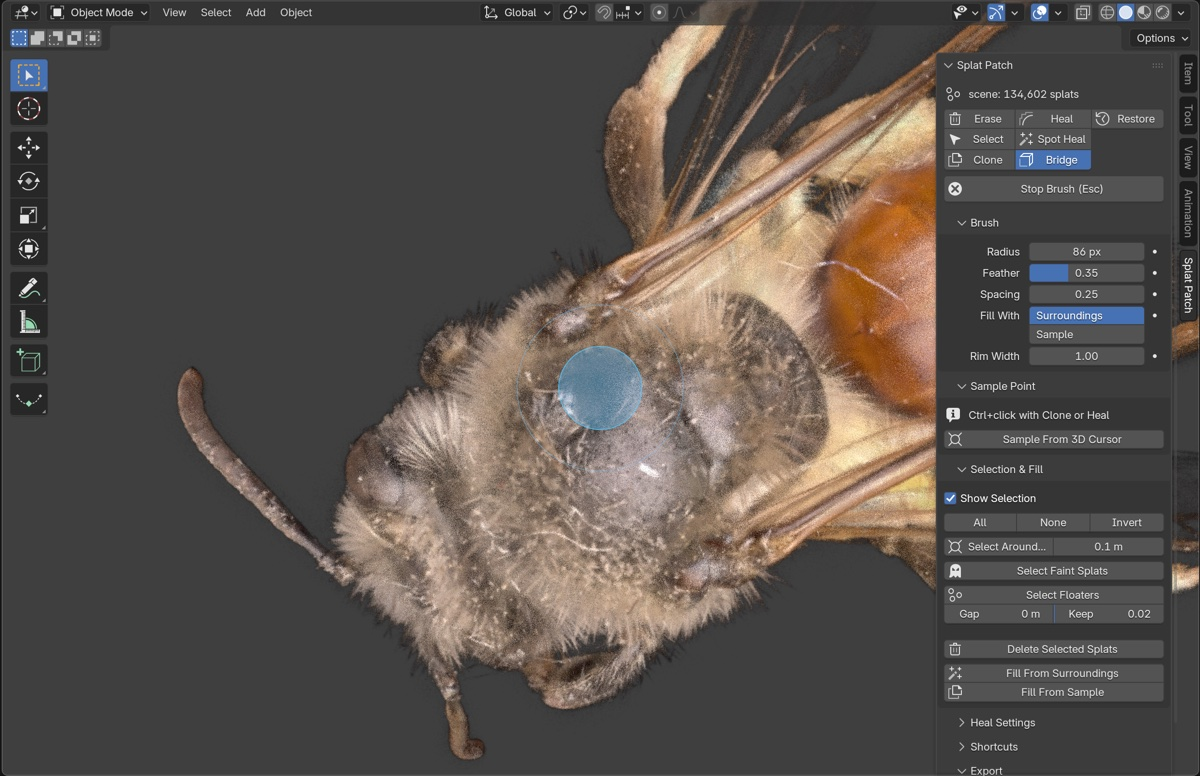
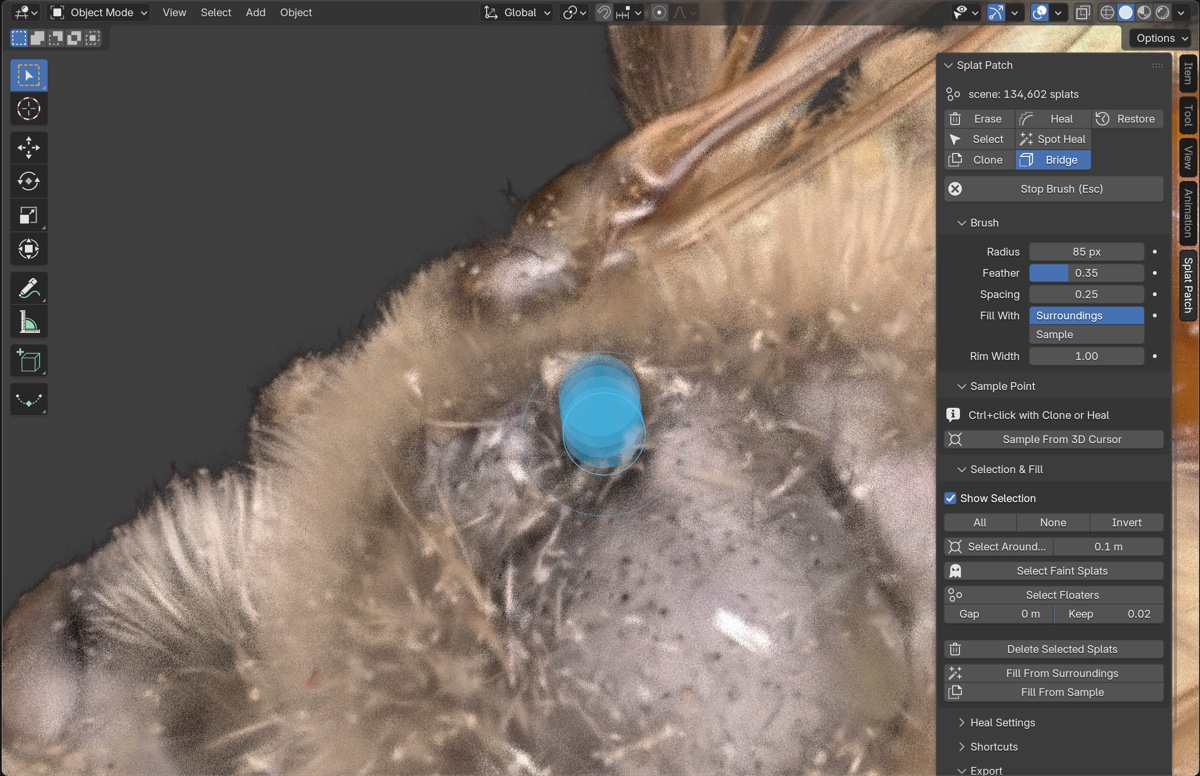
Make Bridge fill what's visibly missing; redo README shots using only the tools
The README's pin removal and Bridge hole were produced by script (a cylinder
selection and a synthetic hole), not the way a user works. Redoing them with
the brushes exposed that Bridge barely filled a real pin hole: its coverage
test counted the hole's own walls as surface. Bridge now decides what is
missing from the view (painted cells whose front surface sits clearly behind
the rim's, fitted across the screen) and grows the patch in view space from
the rim's surface layer, capped so it never reaches past a thin edge.

All README screenshots now come from one session on the Big Bee made only
with the brushes, keys and panel buttons: Erase strokes along the pin in
Surface mode, Select Floaters + Delete, two Bridge strokes, Erase on two
fibres, Spot Heal on specks, a Clone stroke and the Restore view. Captions
say where the result falls short (a thin shadow remains in the pin hole).

diff --git a/gs_patch/ops.py b/gs_patch/ops.py
@@ -576,8 +576,25 @@ class GSP_OT_brush(bpy.types.Operator):
         near = np.nonzero(in_outer & S.visible)[0]
         toward = -view.view_vector_local(self.region, self.rv3d, cx, cy, mw)
 
+        # What counts as the hole is what the user sees: parts of the painted area that are
+        # empty or clearly deeper than the rim's surface (fitted across the screen).
+        hole = self.visible_hole(fp, inner, band, front, cid, cx, cy, r)
+        if not hole.any():
+            self.report({'INFO'}, "The surface under the painted area is intact; nothing to fill")
+            return
+
         def in_footprint(pts):
-            return fp.lookup(inner, *proj.project(pts))
+            return fp.lookup(hole, *proj.project(pts))
+
+        if p.bridge_source != 'SAMPLE':
+            added = self.view_fill(context, fp, hole, band, cx, cy)
+            if added == 0:
+                self.report({'WARNING'}, "Couldn't read the surface around the hole; paint a little onto its edge")
+                return
+            self.last_bridge = (len(ring), 0, added, "Bridged")
+            self.report({'INFO'}, f"Bridged from surroundings: +{added} splats")
+            self.rev = commit(context, self.obj, S, "Splat bridge")
+            return
 
         source = None
         if p.bridge_source == 'SAMPLE':
@@ -588,13 +605,142 @@ class GSP_OT_brush(bpy.types.Operator):
         removed, added, msg = core.bridge_fill(
             S, ring, near, in_footprint, toward, edge=edge, roughness=p.roughness, color_smooth=p.color_smooth,
             density=p.density, source=source, heal=p.heal_strength, feather=p.feather,
-            seed=int(time.time()))
+            seed=int(time.time()), footprint_is_hole=True)
         self.last_bridge = (len(ring), removed, added, msg)
         if added == 0 and removed == 0:
             self.report({'WARNING'}, msg)
             return
         self.report({'INFO'}, f"{msg}: +{added} splats")
         self.rev = commit(context, self.obj, S, "Splat bridge")
+
+    def visible_hole(self, fp, inner, band, front, cid, cx, cy, r):
+        """Screen cells of the painted area where the surface is missing, as seen from here."""
+        S, proj = self.S, self.proj
+        scale = max(r * 2.0, 1.0)
+
+        def design(x, y):
+            u, v = (x - cx) / scale, (y - cy) / scale
+            return np.stack([np.ones_like(u), u, v, u * u, u * v, v * v], 1)
+
+        cells, first = np.unique(cid, return_index=True)
+        fx, fy = proj.sx[band][first], proj.sy[band][first]
+        fd = front[cells]
+        A = design(fx, fy)
+        coef = np.array([np.median(fd), 0, 0, 0, 0, 0], np.float64)
+        m = np.ones(len(fd), bool)
+        for _ in range(6):
+            res = fd - A @ coef
+            mad = np.median(np.abs(res[m])) * 1.4826 + 1e-9
+            m = np.abs(res) < 3.0 * mad
+            if m.sum() < 12:
+                break
+            coef, *_ = np.linalg.lstsq(A[m], fd[m], rcond=None)
+        res = fd - A @ coef
+        mad = np.median(np.abs(res[m])) * 1.4826 + 1e-9
+        # Front-most splat of each painted cell (opaque ones first, any if a cell has none).
+        idx = np.nonzero(fp.lookup(inner, proj.sx, proj.sy, proj.ok) & S.visible & (S.opacity > 0.1))[0]
+        ix = np.floor(proj.sx[idx] / fp.cell).astype(int)
+        iy = np.floor(proj.sy[idx] / fp.cell).astype(int)
+        key = ix * fp.gh + iy
+        d = proj.depth[idx]
+        top = np.full(fp.gw * fp.gh, np.inf)
+        solid = S.opacity[idx] > 0.3
+        np.minimum.at(top, key[solid], d[solid])
+        anyt = np.full(fp.gw * fp.gh, np.inf)
+        np.minimum.at(anyt, key, d)
+        top = np.where(np.isfinite(top), top, anyt).reshape(fp.gw, fp.gh)
+        X, Y = fp.X, fp.Y
+        expect = (design(X.ravel(), Y.ravel()) @ coef).reshape(X.shape)
+        deep = top - expect > max(4.0 * mad, 1e-4)          # includes empty cells (inf)
+        hole = inner & deep
+        # grow by a cell so the patch overlaps the edge of the hole slightly
+        grown = hole.copy()
+        grown[1:, :] |= hole[:-1, :]; grown[:-1, :] |= hole[1:, :]
+        grown[:, 1:] |= hole[:, :-1]; grown[:, :-1] |= hole[:, 1:]
+        self._hole_fit = (design, coef, mad)
+        return grown & inner
+
+    def view_fill(self, context, fp, hole, band, cx, cy):
+        """Grow new splats over the hole cells, at the rim's depth as seen from this view.
+
+        Each new splat copies a nearby splat of the rim's surface layer (colour blended with
+        its neighbours) and keeps that donor's offset within the layer, so grain and
+        thickness carry across. Density matches the rim's surface layer per screen area.
+        """
+        from mathutils.kdtree import KDTree
+        p = props_of(context)
+        S, proj, mw = self.S, self.proj, self.obj.matrix_world
+        design, coef, mad = self._hole_fit
+        rres = proj.depth[band] - design(proj.sx[band], proj.sy[band]) @ coef
+        # How deep the rim's surface goes before it's opaque: per screen cell, walk front to
+        # back accumulating opacity; the patch copies everything down to that depth, so it
+        # gets the hair and the skin under it, not just the translucent top.
+        cid = (np.floor(proj.sx[band] / fp.cell).astype(np.int64) * fp.gh
+               + np.floor(proj.sy[band] / fp.cell).astype(np.int64))
+        order = np.lexsort((rres, cid))
+        c_s, r_s, o_s = cid[order], rres[order], S.opacity[band][order]
+        starts = np.r_[0, np.nonzero(c_s[1:] != c_s[:-1])[0] + 1]
+        cum = np.zeros(len(order))
+        logt = np.log(np.clip(1 - o_s, 1e-6, 1))
+        for s0, s1 in zip(starts, np.r_[starts[1:], len(order)]):
+            cum[s0:s1] = 1 - np.exp(np.cumsum(logt[s0:s1]))
+        opaque_at = [r_s[s0:s1][np.argmax(cum[s0:s1] >= 0.95)] for s0, s1 in zip(starts, np.r_[starts[1:], len(order)])
+                     if cum[s1 - 1] >= 0.95]
+        thick = float(np.median(opaque_at)) if opaque_at else 4 * mad
+        # never reach far past the surface: behind a thin edge the band can see the far side
+        layer = (rres > -6 * mad) & (rres <= min(max(thick, 4 * mad), 10 * mad))
+        ring, rres = band[layer], rres[layer]
+        if len(ring) < 12:
+            return 0
+        rc = np.unique(np.floor(proj.sx[ring] / fp.cell).astype(int) * fp.gh
+                       + np.floor(proj.sy[ring] / fp.cell).astype(int))
+        per_cell = len(ring) / max(len(rc), 1) * p.density
+        xs, ys = np.nonzero(hole)
+        rng = np.random.default_rng(int(time.time()))
+        counts = rng.poisson(per_cell, len(xs))
+        m = int(counts.sum())
+        if m == 0:
+            return 0
+        sx = (np.repeat(xs, counts) + rng.random(m)) * fp.cell
+        sy = (np.repeat(ys, counts) + rng.random(m)) * fp.cell
+        kd = KDTree(len(ring))
+        for i, (a, b) in enumerate(zip(proj.sx[ring], proj.sy[ring])):
+            kd.insert((a, b, 0.0), i)
+        kd.balance()
+        k = min(12, len(ring))
+        donor = np.empty(m, np.int64)
+        mean_dc = np.zeros((m, 3), np.float32)
+        base = S.base
+        for j in range(m):
+            nb = kd.find_n((sx[j], sy[j], 0.0), k)
+            ids = np.array([t[1] for t in nb])
+            w = 1.0 / (np.array([t[2] for t in nb]) + 1.0)
+            w /= w.sum()
+            donor[j] = ids[rng.choice(len(ids), p=w)]
+            if base is not None:
+                mean_dc[j] = (base[ring[ids], :3] * w[:, None]).sum(0)
+        depth = design(sx, sy) @ coef + p.roughness * rres[donor]
+        # Unproject each screen point to its view ray at that view depth (object space).
+        Pinv = np.linalg.inv(np.array(self.rv3d.perspective_matrix @ mw, np.float64))
+        V = np.array(self.rv3d.view_matrix @ mw, np.float64)
+        ndc = np.stack([sx / self.region.width * 2 - 1, sy / self.region.height * 2 - 1], 1)
+
+        def unproj(z):
+            hpt = np.concatenate([ndc, np.full((m, 1), z), np.ones((m, 1))], 1) @ Pinv.T
+            return hpt[:, :3] / hpt[:, 3:4]
+        a0, b0 = unproj(-1.0), unproj(1.0)
+        da = -(a0 @ V[2, :3] + V[2, 3])
+        db = -(b0 @ V[2, :3] + V[2, 3])
+        t = (depth - da) / np.where(np.abs(db - da) > 1e-12, db - da, 1e-12)
+        src = ring[donor]
+        overrides = {"position": (a0 + (b0 - a0) * t[:, None]).astype(np.float32),
+                     "gsp_selected": np.zeros((m, 1), bool)}
+        if base is not None:
+            nb_ = base[src].copy()
+            nb_[:, :3] = (1 - p.color_smooth) * nb_[:, :3] + p.color_smooth * mean_dc
+            overrides[core.BASE_ATTR] = nb_
+        S.append_copies(src, overrides)
+        return m
 
     def end_spot(self, context):
         """Spot Heal: clone a nearby patch over the spot and match its colour to the spot's surroundings.
@@ -955,7 +1101,7 @@ class GSP_OT_fill_selected(_SplatOp, bpy.types.Operator):
         removed, added, msg = core.heal_fill(
             S, hole, border=p.border_width, roughness=p.roughness, color_smooth=p.color_smooth,
             density=p.density, source=source, heal=p.heal_strength, feather=p.feather,
-            seed=int(time.time()))
+            seed=int(time.time()), footprint_is_hole=True)
         if removed == 0 and added == 0:
             self.report({'WARNING'}, msg)
             return {'CANCELLED'}

diff --git a/gs_patch/core.py b/gs_patch/core.py
@@ -684,7 +684,8 @@ def heal_fill(S, hole_mask, border=0.0, roughness=1.0, color_smooth=0.5, density
 
 
 def bridge_fill(S, ring, near, in_footprint, toward, edge=None, roughness=1.0, color_smooth=0.5,
-                density=1.0, source=None, heal=1.0, feather=0.3, seed=0, stiffness=0.05):
+                density=1.0, source=None, heal=1.0, feather=0.3, seed=0, stiffness=0.05,
+                footprint_is_hole=False):
     """Continue the surface across an empty gap.
 
     ring        : indices of intact front-surface splats around the gap (the rim)
@@ -716,20 +717,28 @@ def bridge_fill(S, ring, near, in_footprint, toward, edge=None, roughness=1.0, c
     surf = _Surface(pos, op, ring, toward, stiffness)
     grid = _Grid(np.stack([surf.u, surf.v], 1), 2.0 * spacing)
 
-    mad = np.median(np.abs(surf.resid - np.median(surf.resid))) * 1.4826
-    tol = max(2.0 * spacing, 3.0 * mad)
     removed = 0
 
-    # Cells that already have surface on them: any splat close to the fitted height.
-    nu, nv, nh = surf.uvh(pos[near])
-    on_surface = np.abs(nh - surf.height(nu, nv)) < tol
-    occupied = grid.count(nu[on_surface], nv[on_surface]) > 0
-    ring_cells = grid.count(surf.u, surf.v) > 0
+    # Cells that already have surface: compare each cell's outermost splat with how far out
+    # the rim's cells typically reach. A pit's top sits well below that, however rough the rim.
+    def cell_tops(uu, vv, res):
+        ij = grid.ij(uu, vv)
+        key = ij[:, 0] * grid.dims[1] + ij[:, 1]
+        top = np.full(grid.dims[0] * grid.dims[1], -np.inf)
+        np.maximum.at(top, key, res)
+        return top.reshape(grid.dims)
+    ring_top = cell_tops(surf.u, surf.v, surf.resid)
+    ring_cells = np.isfinite(ring_top)
+    reach = float(np.percentile(ring_top[ring_cells], 10)) - spacing
+    solid_near = near[op[near] > 0.1]
+    nu, nv, nh = surf.uvh(pos[solid_near])
+    occupied = cell_tops(nu, nv, nh - surf.height(nu, nv)) >= reach
 
     all_ij = np.argwhere(np.ones(grid.dims, bool))
     cu, cv = grid.centres(all_ij).T
     painted = in_footprint(surf.point(cu, cv)).reshape(grid.dims)
-    fill_ij = np.argwhere(painted & ~occupied)
+    # footprint_is_hole: the caller already worked out (from the view) which part is missing.
+    fill_ij = np.argwhere(painted if footprint_is_hole else painted & ~occupied)
     per_cell = len(ring) / max(np.count_nonzero(ring_cells), 1) * density
     if len(fill_ij) == 0:
         return removed, 0, "The surface under the painted area is already covered"

diff --git a/README.md b/README.md
@@ -6,7 +6,7 @@ dust, stray hairs, and the pin and the hole it leaves.
 
 Sidebar: **3D Viewport > N > Splat Patch**.
 
-| Top of the thorax as scanned, with the pin | Pin erased, strays removed, hole bridged |
+| Top of the thorax as scanned, with the pin | Pin erased, strays removed, hole bridged (a thin shadow remains), fibres and specks retouched |
 |---|---|
 | ![Before: the pin entering the top of the bee's thorax](docs/images/pin_before.jpg) | ![After: the same view with the pin gone and the surface continued across the hole](docs/images/pin_after.jpg) |
 
@@ -14,13 +14,13 @@ Sidebar: **3D Viewport > N > Splat Patch**.
 
 ### Retouching dust and fibres
 
-Close-ups from the same scan, same camera, before and after:
+Close-ups from the same session and camera, before and after:
 
 | Stray fibres lying on the hair: **Erase** along them with a small brush | |
 |---|---|
 | ![Before: white fibres lying across the thorax hair](docs/images/fibre_before.jpg) | ![After: the fibres erased, hair underneath intact](docs/images/fibre_after.jpg) |
 
-| Dust on the body: **Spot Heal** over each speck | |
+| White specks on the thorax plate: **Spot Heal** over each one | |
 |---|---|
 | ![Before: white dust specks on the dark thorax plate](docs/images/dust_before.jpg) | ![After: the specks healed from the surrounding surface](docs/images/dust_after.jpg) |
 
@@ -107,23 +107,29 @@ it, continuing the fuzz or shell from the edge of the hole.
 
 ![The pin entering the thorax](docs/images/bridge_1_pin.jpg)
 
-**2. Erase the pin.** Erase it in **Through** mode, then **Select Floaters** and **Delete Selected Splats**
-to clear the stray bits. That leaves a dark hole (circled) where you can see into the body.
+**2. Erase the pin.** With the **Erase** brush (Surface mode is fine), drag along the pin, starting next to
+the body and moving outwards, so each stroke starts on the pin rather than behind it. Dab any stubs left
+by the body, then press **Select Floaters** and **Delete** to clear the stray bits. That leaves a dark hole
+where you can see into the body.
 
-![After erasing the pin: a dark hole in the surface](docs/images/bridge_2_hole.jpg)
+![Erasing the pin with the Erase brush: the red trail is the stroke so far](docs/images/erase_pin.jpg)
 
-**3. Paint over the hole with Bridge.** Turn the view so you're looking fairly straight into the hole. Press
-**B** (or click **Bridge**) and press **F** to size the brush a little bigger than the hole. The solid ring is
-the brush; the fainter outer ring is how much surrounding surface it will read (*Rim Width*). Drag over the
-hole: the area you paint shows as a blue fill. Nothing changes until you let go.
+![After erasing the pin: a dark hole where it went in](docs/images/bridge_2_hole.jpg)
+
+**3. Paint over the hole with Bridge.** Orbit until you're looking into the hole. Press **B** (or click
+**Bridge**) and press **F** to size the brush. The solid ring is the brush; the fainter outer ring is how much
+surrounding surface it reads (*Rim Width*). Drag over the whole dark area, a little onto the intact surface:
+what you paint shows as a blue fill. Nothing changes until you let go.
 
 ![Painting over the hole with the Bridge brush](docs/images/bridge_3_paint.jpg)
 
-**4. Let go.** The hole is covered with new splats grown from its rim, level with the surrounding surface.
-The status bar reports how many were added (417 here). Anything deeper in the hole is left alone, now hidden
-behind the new surface.
+**4. Let go, then check from another angle.** Bridge fills the parts of the painted area that are deeper than
+the surrounding surface, as seen from your view, with splats copied from the rim. Orbit and look again: in
+this session a second Bridge stroke from the angle below filled more of it (the two strokes added about 700
+splats). A faint shadow can remain in a deep, narrow hole; a few light **Clone** strokes from a nearby patch
+cover it.
 
-![After Bridge: the hole covered, continuing the surrounding fuzz](docs/images/bridge_4_result.jpg)
+![After two Bridge strokes: most of the hole is covered; a thin dark slit remains at the deepest point](docs/images/bridge_4_result.jpg)
 
 **Tips**
 - *Fill With: Sample* clones the area around your sample point (Ctrl+click with Clone first) onto the
@@ -132,6 +138,9 @@ behind the new surface.
   strokes from a nearby hairy patch on top blend it in.
 - If the bridge looks wrong, press **R** (Restore) and paint over it: only the bridge's splats are removed,
   and you can try again from a straighter view.
+
+All the screenshots in this README come from one editing session on the Big Bee scan, made only with the
+add-on's own brushes, keys and panel buttons, as a user would.
 
 ## Restore (non-destructive edits)
 
